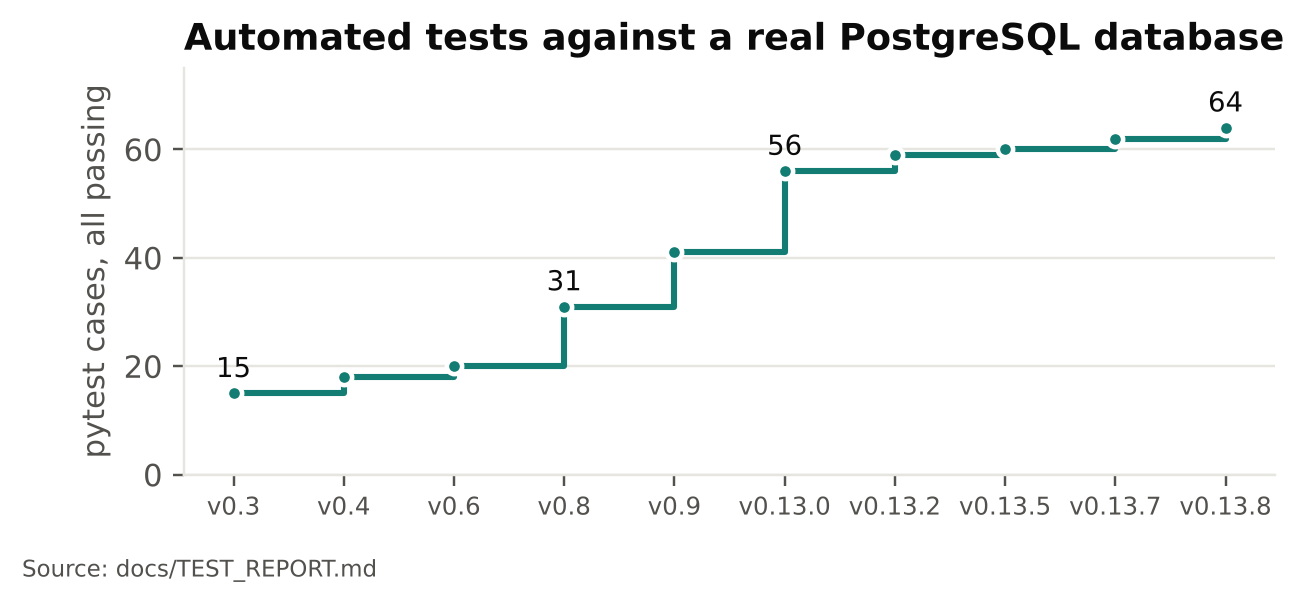
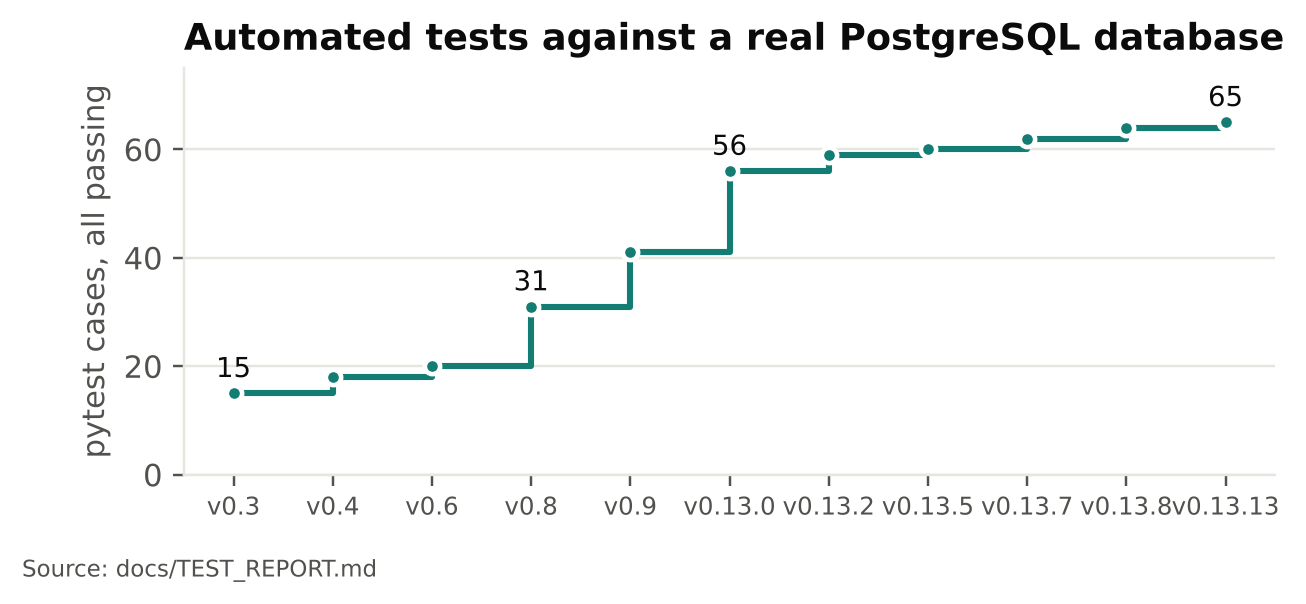
v0.13.13: validate the SLM meal explanation before showing it
The stage-8 explanation now passes the Meal Advisor's validator (numbers from
the facts, no new foods, no unsafe phrases); a failing one is stored as
rejected and not shown. Found by the E6 benchmark (1 of 6 grounded).
Report and charts updated.

Claude-Session: https://claude.ai/code/session_01KvS1eRErAfwvtfNx7f33H6

diff --git a/docs/report/build_report.js b/docs/report/build_report.js
@@ -81,7 +81,7 @@ const cover = [
   new Paragraph({ spacing: { after: 600 }, children: [run("A photo-based meal recognition and glucose-awareness system for people managing diabetes in Singapore", { size: 24, color: INK2 })] }),
   new Paragraph({ spacing: { after: 80 }, children: [run("NUS-ISS Practice Project · Practice Project Group (PT & Stackable) 31", { size: 22 })] }),
   new Paragraph({ spacing: { after: 80 }, children: [run("Dizon Joselito Villanueva", { size: 22 })] }),
-  new Paragraph({ spacing: { after: 80 }, children: [run("Final draft · 29 October 2026 · system version v0.13.12 · follows the proposal of 30 September 2026", { size: 22, color: INK2 })] }),
+  new Paragraph({ spacing: { after: 80 }, children: [run("Final draft · 29 October 2026 · system version v0.13.13 · follows the proposal of 30 September 2026", { size: 22, color: INK2 })] }),
   new Paragraph({ spacing: { before: 2400 }, children: [run("Educational estimates, not medical advice. Wei Ming, used in examples, is fictional.", { size: 18, color: INK2, italics: true })] }),
   new Paragraph({ children: [new PageBreak()] }),
 ];
@@ -101,7 +101,7 @@ const summary = [
     ["Multi-food plates", "Detection **precision 74.7%, recall 68.4%**; 262 ms median per plate", "multifood_metrics.json"],
     ["Grounded advisor", "**38/38** test questions passed, **0%** unsupported claims, 12 ms median (rule engine)", "advisor_eval.json"],
     ["Coverage", "247 of 320 classes map exactly to a nutrition record; GL now estimable for **135 of 286** foods (57 published GI + 78 borrowed)", "nutrition_coverage.json, v0.13.8"],
-    ["Quality", "**64** automated tests passing; 9/9 acceptance checks, also offline; data kept across restart", "TEST_REPORT.md"],
+    ["Quality", "**65** automated tests passing; 9/9 acceptance checks, also offline; data kept across restart", "TEST_REPORT.md"],
     ["Language model", SLM ? `qwen2.5:1.5b on Buddy: ${SLM.rewrite.passed_validator} rewordings passed the validator; ${SLM.explain.grounded} explanations grounded` : "Benchmark ready (app/tools/slm_eval.py); **results pending** the run on the deployment server", "slm_eval.json"],
   ], [1900, 5026, 2100]),
   P("The main weaknesses are honest ones: visually similar dishes (steak was recognised as itself in only 11% of matched cases), portions that a photo cannot weigh (±35–50%), nutrition values that are transcribed but not yet verified, and no trial with real users yet. Section 7 discusses each and the planned next steps."),
@@ -168,7 +168,7 @@ const tools = [
     ["Glycaemic load", "Published GI (Atkinson 2021) plus rule-based GI borrowing from the staple", "Covers local dishes without inventing values"],
     ["Glucose estimate", "One-compartment mass-balance ODE, OGTT anchor, per-user median-ratio calibration", "Explainable and conservative"],
     ["Language model", "Ollama with Qwen 2.5 1.5B, JSON-schema output, temperature control", "Local, small, structured; wording only"],
-    ["Grounding", "Rule engine draft → SLM rewrite → validator (numbers ±2%, food names, unsafe phrases)", "No unsupported number reaches the user in the Meal Advisor (meal explanations: see 6.4)"],
+    ["Grounding", "Rule engine draft → SLM rewrite → validator (numbers ±2%, food names, unsafe phrases)", "No unsupported number reaches the user (advisor replies and, from v0.13.13, meal explanations)"],
     ["Personal memory", "Class-probability fingerprints, cosine similarity ≥ 0.70 with a 0.05 margin", "Recognises a user's own foods without retraining"],
     ["Data governance", "Per-sample consent, 11 screening checks, perceptual hashes, frozen dataset versions, model gate with shadow mode", "Safe learning from user photos"],
     ["Backend", "FastAPI, SQLAlchemy 2, Alembic, PostgreSQL 16, Python 3.12", "Typed API, migrations on start"],
@@ -231,7 +231,7 @@ const design = [
 const dev = [
   H1("4. System development and implementation"),
   H2("4.1 Process"),
-  P("The system was built iteratively in versioned increments (v0.1 to v0.13.12, about 50 commits from 23 to 29 October 2026, following the proposal of 30 September). Each change was tested, versioned, recorded in the changelog and test report, and deployed to the home server (\"Buddy\") by the developer. The code base has about 6,800 lines of Python in the backend, 3,700 lines of TypeScript in the frontend and 2,000 lines of ML tooling, with 10 test modules."),
+  P("The system was built iteratively in versioned increments (v0.1 to v0.13.13, about 50 commits from 23 to 29 October 2026, following the proposal of 30 September). Each change was tested, versioned, recorded in the changelog and test report, and deployed to the home server (\"Buddy\") by the developer. The code base has about 6,800 lines of Python in the backend, 3,700 lines of TypeScript in the frontend and 2,000 lines of ML tooling, with 10 test modules."),
   H2("4.2 From proposal to build"),
   ...TABLE("Proposed design (30 September 2026) and what was built", ["Proposed", "Built", "Why"], [
     ["Web UI with a webcam; smartphone later", "Phone-first responsive web app (camera or upload) plus desktop", "Capture happens at the table, so the phone came first"],
@@ -308,7 +308,7 @@ const perf = [
   ...(slmRows ? TABLE(`Local language model on the deployment server (E6): ${SLM.model}, ${SLM.tokens_per_s ? SLM.tokens_per_s.mean + " tokens/s" : ""}`, ["Task", "Language model", "Rule baseline", "p50 / p95 ms"], slmRows, [2200, 3626, 1900, 1300])
     : [P("**E6 results pending.** The benchmark (app/tools/slm_eval.py) runs the four language-model tasks above on fixed inputs with known answers, read-only, on the deployment server. This table will be completed from that run.", { shading: { fill: "FDF2E7", type: ShadingType.CLEAR, color: "auto" } })]),
   ...(SLM ? [P("The result is clear and not flattering to the language model. On every task with a rule baseline, the **rules were better**: description parsing F1 0.987 against 0.732 (19 against 9 exact sets), and on unknown names the model was right 4 times in 15 and **wrong 6 times**, against the fuzzy lookup's 7 right and 4 wrong. Rewording advisor drafts is where it helps: **7 of 8** rewordings passed the validator and could be shown; the eighth fell back to the rule answer. Its meal explanations were the weakest: only **1 of 6** used only numbers from the facts."),
-    P("That last result exposed a gap. Advisor replies pass through the validator before they are shown, but meal explanations are displayed **without that check**, so an explanation can state a number the system never computed. The fix is to run the same validator on explanations and show nothing (the rule-based results remain) when it fails. The general lesson is the design's premise: a 1.5-billion-parameter model is useful for wording, not for facts, and every model output needs a deterministic check.")] : []),
+    P("That last result exposed a gap. Advisor replies passed through the validator before they were shown, but meal explanations were displayed **without that check**, so an explanation could state a number the system never computed. **Fixed in v0.13.13**: explanations now pass the same validator, and one that fails is not shown (the rule-based results remain; the check is stored for audit). With this model most explanations will now be withheld, which is the right trade-off for a health app. The general lesson is the design's premise: a 1.5-billion-parameter model is useful for wording, not for facts, and every model output needs a deterministic check.")] : []),
   ...TABLE("Language model in real use on the deployment server (inference log, all calls since it was enabled)", ["Task", "Calls", "Completed", "Mean ms", "p50 / p95 ms"], [
     ["Meal explanation", "24", "100%", "1,515", "1,465 / 3,299"],
     ["Meal Advisor reply", "3", "100%", "4,735", "5,304 / 5,314"],
@@ -321,7 +321,7 @@ const perf = [
   P("For chicken rice with teh tarik (95.6 g carbohydrate, GL 66.3), the model estimates that a 15-minute brisk walk 15 minutes after eating lowers the peak by only 2.3% and the area by 2.7% (it uses about 55 kcal, 7% of the meal's energy), while eating two-thirds of the rice lowers GL to 48.4 and the peak by about a quarter. The model therefore points users to the portion before the walk, consistent with GL arithmetic. These are population-level estimates, not measurements."),
   H2("6.7 Quality"),
   ...FIG("08_tests_growth.png", 5.6, "Automated tests over the project."),
-  P("All 64 automated tests pass against a real PostgreSQL database; browser flows pass on phone and desktop sizes with no JavaScript errors; the acceptance run passed 9 of 9 checks, also with the internet disconnected, and data survived a restart."),
+  P("All 65 automated tests pass against a real PostgreSQL database; browser flows pass on phone and desktop sizes with no JavaScript errors; the acceptance run passed 9 of 9 checks, also with the internet disconnected, and data survived a restart."),
 ];
 
 const findings = [
@@ -329,13 +329,13 @@ const findings = [
   H2("7.1 What worked"),
   ...BUL([
     "**Human in the loop beats a single answer.** With top-3 at 85.7% and one-tap correction, a wrong top-1 costs a tap, not a wrong log.",
-    "**Grounding by construction.** Letting rules produce facts and the language model only produce wording gave zero unsupported claims in the advisor, and a safe fallback when the model is slow or offline. Where the check was missing (meal explanations), the model added numbers of its own in 5 of 6 cases.",
+    "**Grounding by construction.** Letting rules produce facts and the language model only produce wording gave zero unsupported claims in the advisor, and a safe fallback when the model is slow or offline. Where the check was missing (meal explanations), the model added numbers of its own in 5 of 6 cases; the benchmark found it, and the check now covers both.",
     "**Honest uncertainty is a feature.** Leaving an item unidentified (48% of missed steaks) is preferable to a confident wrong dish for someone counting carbohydrate.",
     "**Cheap to run.** Every model runs on one CPU server; the classifier takes ~12 ms and a full multi-food analysis ~0.26 s.",
   ]),
   H2("7.2 Limitations"),
   ...BUL([
-    "**Meal explanations are not validated**: the language model's explanation is shown without the advisor's number check; in the benchmark 5 of 6 contained a number not in the facts. Fix before release (Section 6.4).",
+    "**The small language model adds little**: rules beat it on parsing and matching, and 5 of 6 meal explanations contained a number of their own. Since v0.13.13 those are withheld, so most users will see the rule-based results without a model explanation. A larger or fine-tuned local model would need to be re-measured with the same benchmark.",
     "**Visually similar dishes** (steak vs sirloin, noodle soups, rice plates) remain the main confusion; scores are uncalibrated.",
     "**Portions** come from priors or area, not volume (±35–50%); entering grams is the accurate path. The proposal's portion error measure (MAE against weighed portions) has not been run.",
     "**Nutrition values are unverified** transcriptions (USDA- and HPB-style values) or recipe approximations (199 records); a verified import (HPB SG FoodID, USDA FDC) is required before clinical use.",

diff --git a/frontend/src/components/MealReview.tsx b/frontend/src/components/MealReview.tsx
@@ -206,6 +206,7 @@ export function InsightCards({ meal, onChange }: { meal: Meal; onChange?: (m: Me
         <div className="mt-3 border-t border-slate-100 pt-3 text-sm">
           {pending ? <p className="text-slate-500 flex items-center gap-2"><Spinner className="size-4" />Local SLM is writing a plain-language explanation of these numbers…</p>
             : ins.explanation.text ? <div><p className="text-slate-700">{ins.explanation.text}</p><p className="text-[11px] text-slate-400 mt-1">Generated by local SLM ({ins.explanation.source.replace('slm:', '')}) from the numbers above{(ins.explanation as any).latency_ms ? ` in ${((ins.explanation as any).latency_ms / 1000).toFixed(1)} s` : ''}.</p></div>
+            : ins.explanation.source === 'rejected' ? <p className="text-xs text-slate-500">The local SLM's explanation used a number that is not in these results, so it is not shown. The insights above come from the rule engine using food-composition data.</p>
             : <p className="text-xs text-slate-500">Local SLM offline — these insights come from the rule engine using food-composition data.</p>}
         </div>
       </Section>

diff --git a/frontend/src/lib/version.ts b/frontend/src/lib/version.ts
@@ -1,7 +1,10 @@
 /** App version (kept in step with backend/app/version.py) and high-level release notes, newest first. */
-export const APP_VERSION = '0.13.12'
+export const APP_VERSION = '0.13.13'
 
 export const CHANGELOG: { version: string; title: string; changes: string[] }[] = [
+  { version: '0.13.13', title: 'Checked meal explanations', changes: [
+    'The plain-language meal explanation from the local language model is now checked like Meal Advisor replies: if it states a number that is not in your results, it is not shown',
+  ] },
   { version: '0.13.12', title: 'Aligned with the proposal', changes: [
     'Behind the scenes: the report, slides and video script now use the submitted proposal\'s pricing, target users and pipeline names; no change to the app',
   ] },

diff --git a/backend/tests/test_flow.py b/backend/tests/test_flow.py
@@ -268,6 +268,18 @@ def test_progress_and_deferred_slm_explanation(client, auth, monkeypatch):
     assert meal["insights"]["explanation"]["text"] == "Mostly carbohydrate from rice." and calls == [90]
 
 
+def test_slm_explanation_with_an_unsupported_number_is_not_shown(client, auth, monkeypatch):
+    from app.services import slm
+    monkeypatch.setattr(slm, "status", lambda force=False: {"available": True, "selected": "fake-slm", "models": ["fake-slm"], "error": None})
+    monkeypatch.setattr(slm, "explain", lambda facts, timeout=None: slm.Explanation(summary="This meal has 987 kcal and will raise glucose by 4.6 mmol/L."))
+    meal = client.post(f"{API}/meals/capture", headers=auth, data={"description": "chicken rice"}).json()
+    meal = client.post(f"{API}/meals/analyze", json={"meal_id": meal["id"]}, headers=auth).json()
+    meal = client.post(f"{API}/meals/{meal['id']}/explain", headers=auth).json()
+    exp = meal["insights"]["explanation"]
+    assert exp["text"] is None and exp["source"] == "rejected" and 987 in exp["check"]["unsupported_numbers"]
+    assert meal["insights"]["recommendations"]          # the rule-based results are still there
+
+
 def test_custom_food_memory_and_training_samples(client, auth):
     def analyse():
         r = client.post(f"{API}/meals/capture", headers=auth,

diff --git a/backend/app/services/insights.py b/backend/app/services/insights.py
@@ -237,7 +237,13 @@ def contextualise(foods: list[dict], t: dict, ins: dict, profile, timeout: float
              "user_goals": list(profile.goals or []) if profile else [],
              "recommendations": [r["title"] for r in ins["recommendations"]]}
     res = slm.explain(facts, timeout=timeout)
-    return {"text": res.summary, "source": f"slm:{slm.status()['selected']}"} if res else {"text": None, "source": "none"}
+    if not res or not res.summary.strip():
+        return {"text": None, "source": "none"}
+    from app.services import advisor   # local import: advisor → forecast → insights
+    check = advisor.validate(res.summary, "", facts)   # the advisor's own check: numbers, food names, unsafe phrases
+    if not check["ok"]:
+        return {"text": None, "source": "rejected", "check": check}
+    return {"text": res.summary.strip(), "source": f"slm:{slm.status()['selected']}"}
 
 
 def pending_explanation(foods: list[dict]) -> dict:

diff --git a/docs/report/make_charts.py b/docs/report/make_charts.py
@@ -177,7 +177,7 @@ ax.set_title("Mass-balance glucose estimate, type 2 profile, 78 kg")
 save(fig, "07_glucose_curves.png", "services/forecast.py (dG/dt = Ra − k·G − U_ex) run on foods.json records; an estimate, not a measurement")
 
 # 8. Automated tests over the project ----------------------------------------------------------------------------------
-hist = [("0.3", 15), ("0.4", 18), ("0.6", 20), ("0.8", 31), ("0.9", 41), ("0.13.0", 56), ("0.13.2", 59), ("0.13.5", 60), ("0.13.7", 62), ("0.13.8", 64)]
+hist = [("0.3", 15), ("0.4", 18), ("0.6", 20), ("0.8", 31), ("0.9", 41), ("0.13.0", 56), ("0.13.2", 59), ("0.13.5", 60), ("0.13.7", 62), ("0.13.8", 64), ("0.13.13", 65)]
 fig, ax = plt.subplots(figsize=(6.4, 2.4))
 ax.step(range(len(hist)), [n for _, n in hist], where="post", color=TEAL, lw=2)
 ax.plot(range(len(hist)), [n for _, n in hist], "o", color=TEAL, ms=5, mec="white", mew=1.5)

diff --git a/backend/app/version.py b/backend/app/version.py
@@ -1,1 +1,1 @@
-APP_VERSION = "0.13.12"   # kept in step with frontend/src/lib/version.ts
+APP_VERSION = "0.13.13"   # kept in step with frontend/src/lib/version.ts

diff --git a/CHANGELOG.md b/CHANGELOG.md
@@ -2,6 +2,14 @@
 
 High-level changes per release. The running version is shown next to the logo and on the About page.
 
+## v0.13.13 — Meal explanations are validated
+
+- The local SLM's meal explanation (stage 8) now passes the Meal Advisor's validator before it is shown: every number
+  must come from the meal's facts (±1 or 2%), no new food names, no unsafe statements. A failing explanation is not
+  shown (`source: "rejected"`, with the check stored for audit); the rule-based results stay. Found by the E6
+  benchmark on Buddy, where 5 of 6 explanations contained a number of their own.
+- Test: an explanation stating an unsupported number is rejected and the recommendations remain (65 tests).
+
 ## v0.13.12 — Aligned with the submitted proposal (no app change)
 
 - Report, slides and video script harmonised with the proposal of 30 September 2026: pricing is freemium with a

diff --git a/docs/TEST_REPORT.md b/docs/TEST_REPORT.md
@@ -182,3 +182,11 @@ Executed locally (CPU, Python venv + PostgreSQL 16, built frontend served by the
 | Report build (`node docs/report/build_report.js`) and LibreOffice render | **PASS**: 21 pages, tables and the renamed pipeline figure fit |
 | `node --check demo/record.mjs`, narration JSON parses | **PASS** |
 | App | No change; tests not re-run |
+
+## v0.13.13: meal explanations validated (29 Oct 2026)
+
+| Test | Result |
+|---|---|
+| pytest | **65 passed** (adds 1): an SLM explanation with a number not in the facts is stored as `rejected` with the failing numbers, its text is not shown, and the rule-based recommendations remain |
+| Frontend typecheck | PASS |
+| Not run here | The Buddy run with the real model; expect most explanations from qwen2.5:1.5b to be rejected (1 of 6 passed in E6) |
